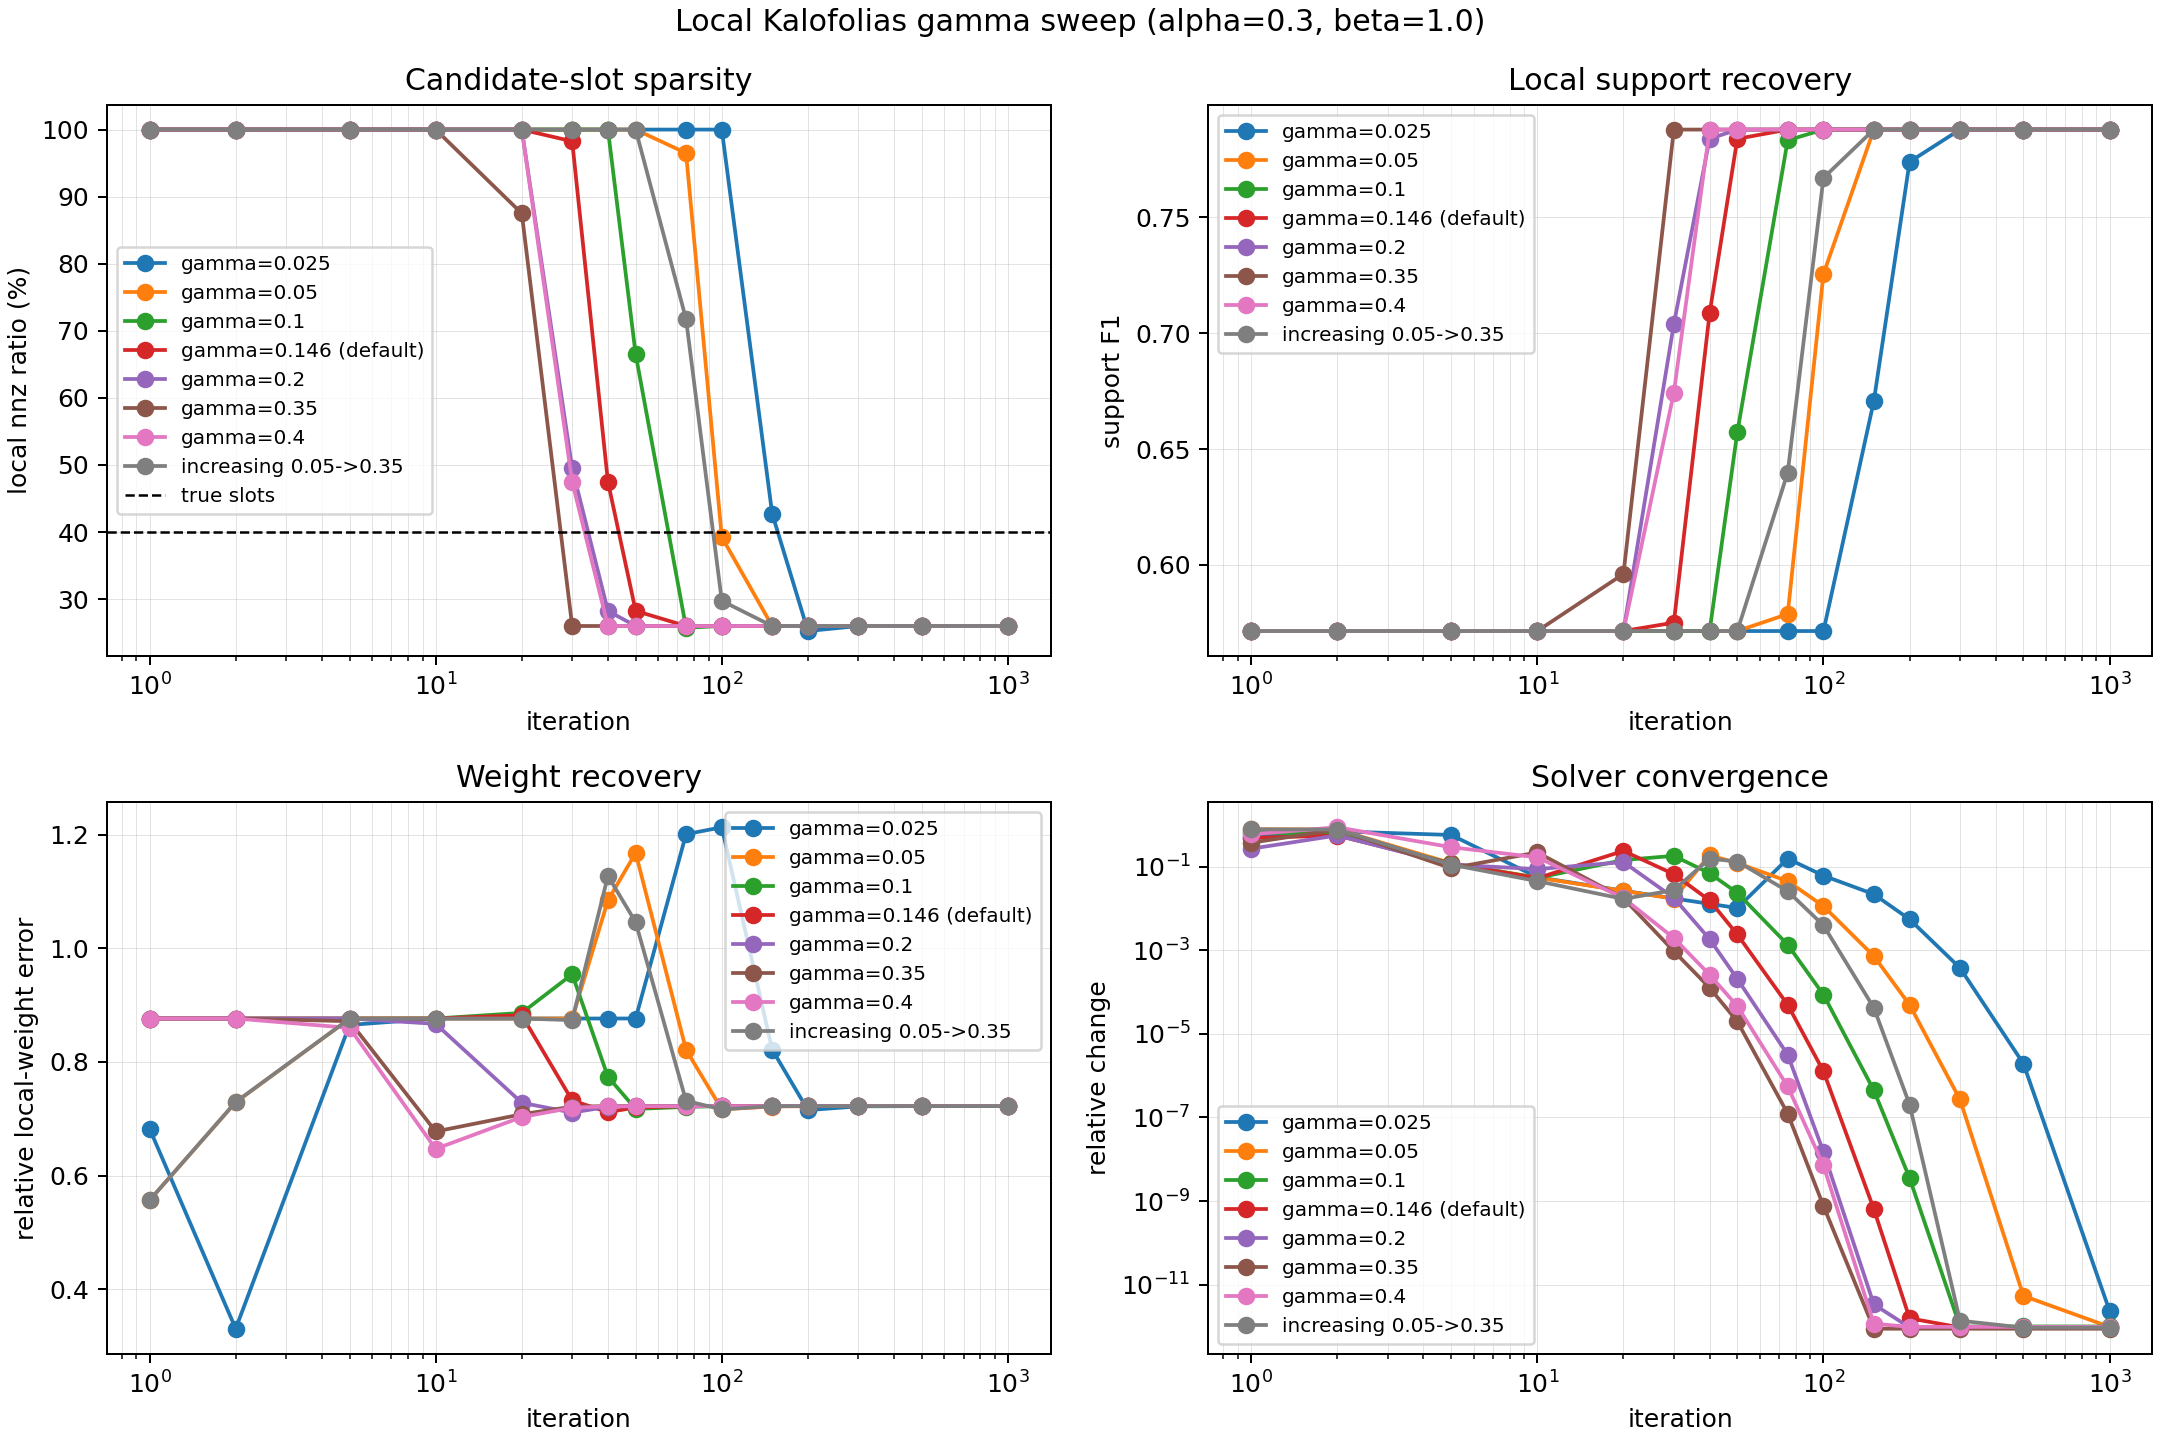
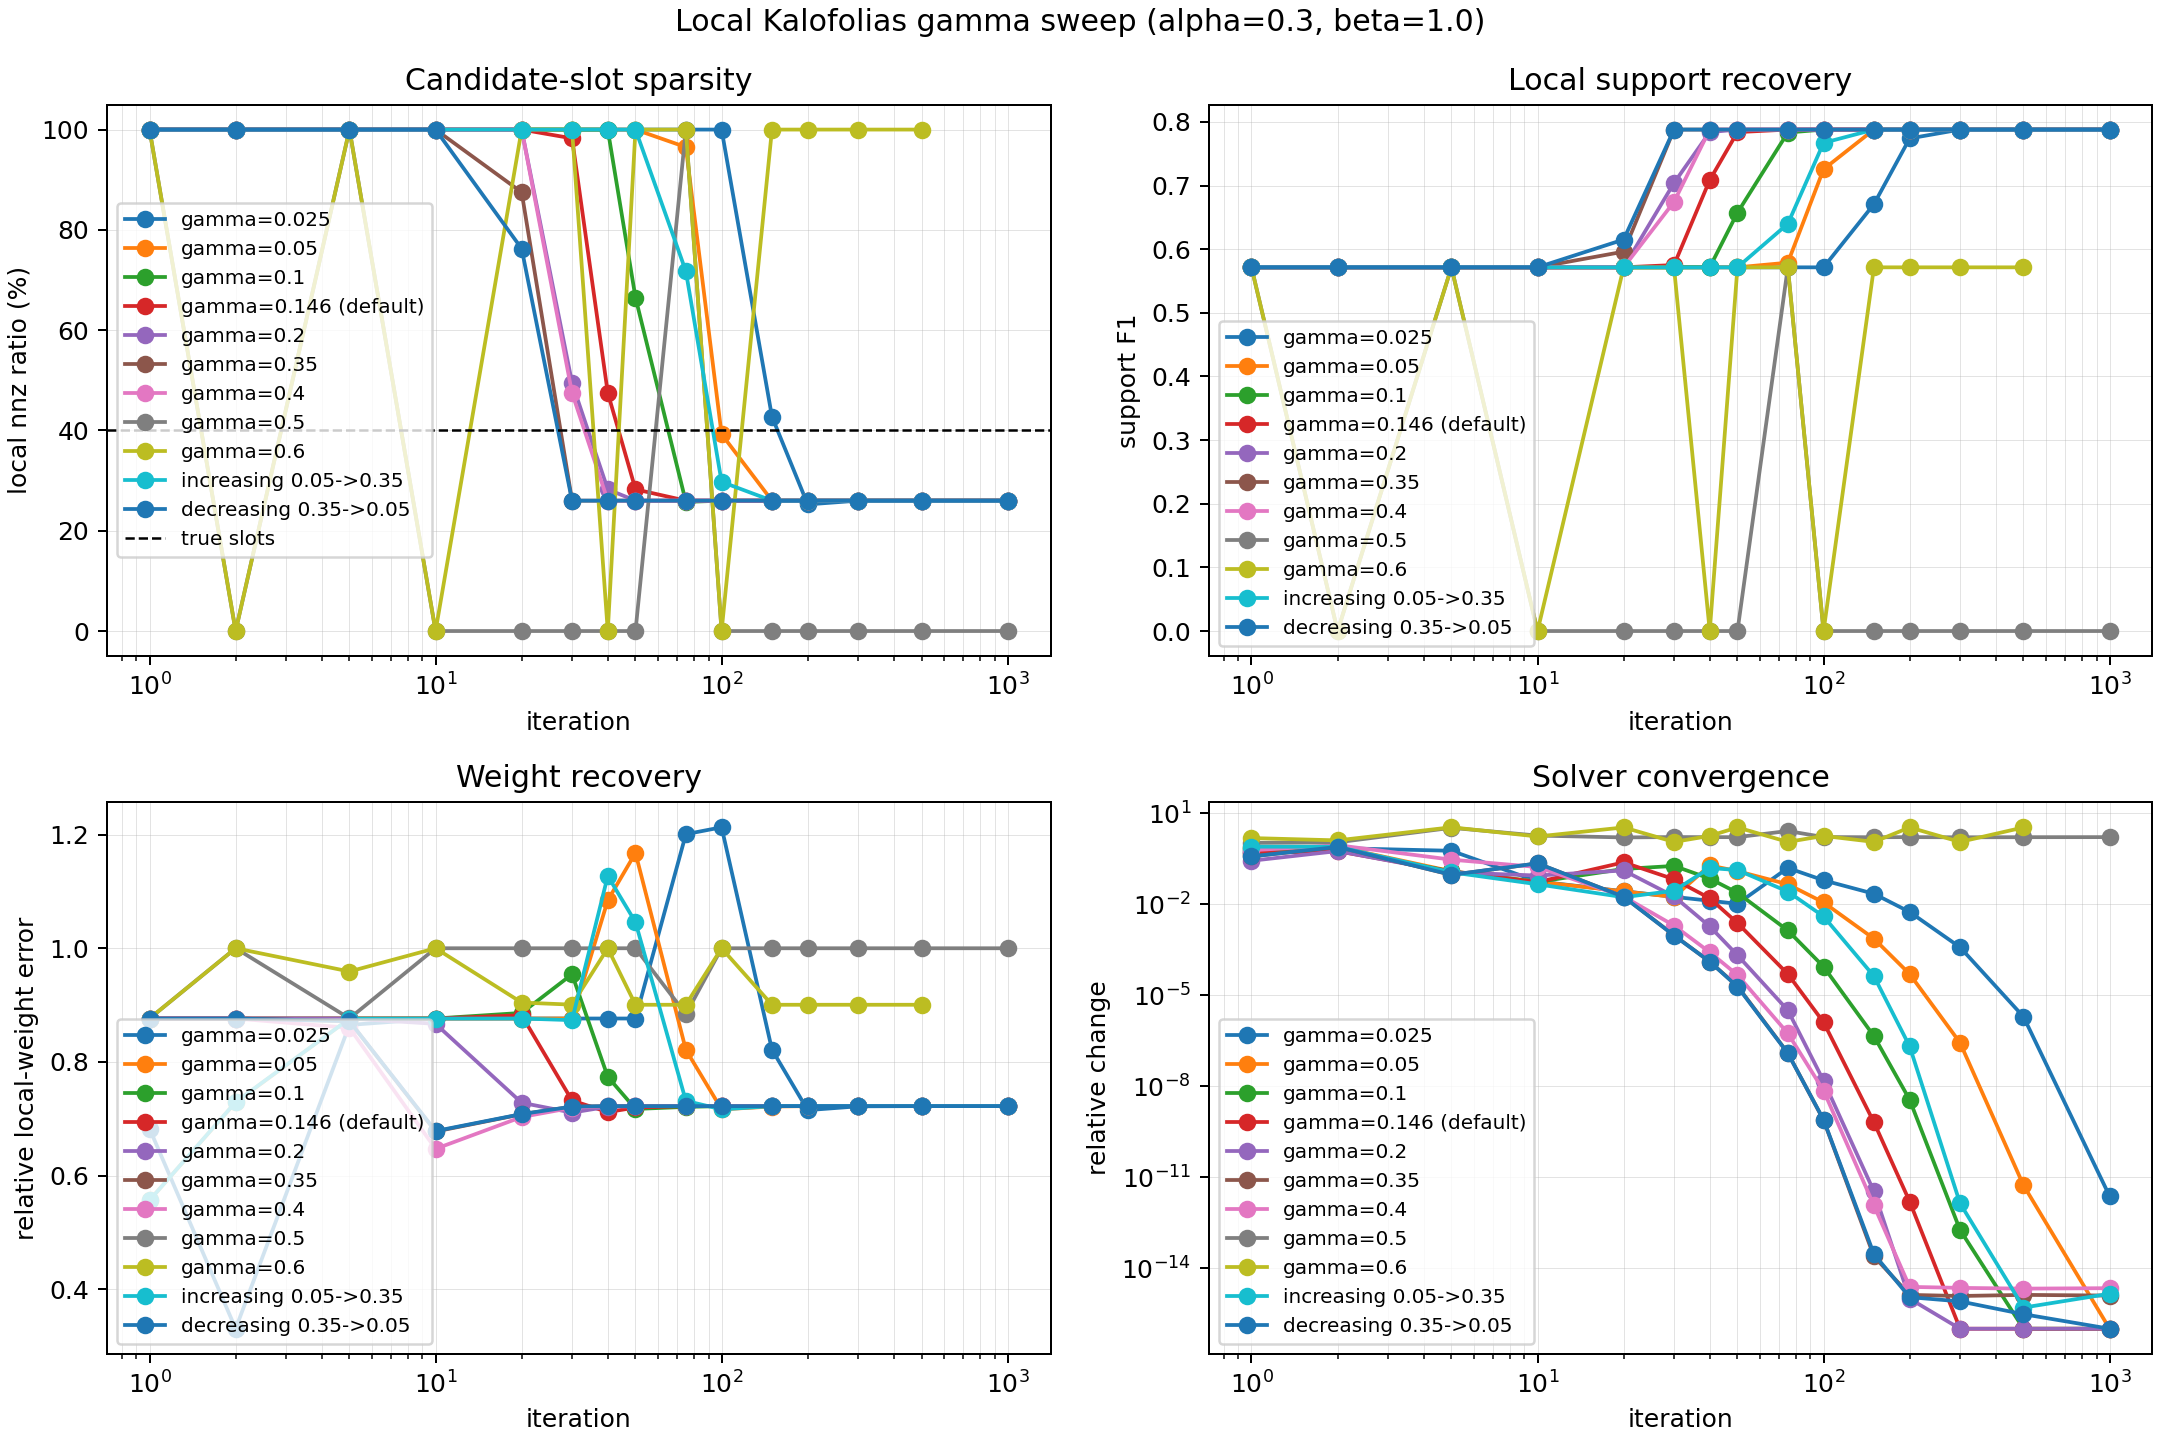
added test codes

diff --git a/train/test_traffic.py b/train/test_traffic.py
@@ -1,0 +1,102 @@
+"""Evaluate a traffic checkpoint on the test split.
+
+Run from the repository root with ``python -m train.test_traffic --help``.
+Use the same dataset and model options that were used during training.
+"""
+
+from __future__ import annotations
+
+import pickle
+from pathlib import Path
+
+import torch
+
+from train.train_utils import (
+    apply_args_to_config,
+    build_loss_fn,
+    create_data,
+    create_model,
+    get_model_config,
+    parse_args,
+    prepare_runtime,
+)
+from utils import test as evaluate_batches
+
+
+SIGNAL_NAMES = ("flow", "occupancy", "speed")
+
+
+def load_checkpoint(model, path, device):
+    """Strictly restore model weights from either checkpoint format."""
+    checkpoint_path = Path(path).expanduser()
+    if not checkpoint_path.is_file():
+        raise FileNotFoundError(f"Checkpoint does not exist: {checkpoint_path}")
+
+    try:
+        checkpoint = torch.load(checkpoint_path, map_location=device, weights_only=True)
+    except TypeError:  # PyTorch versions before weights_only was introduced.
+        checkpoint = torch.load(checkpoint_path, map_location=device)
+    except pickle.UnpicklingError:
+        # Full training-state files include NumPy RNG objects, which cannot be
+        # loaded by weights_only. Only load checkpoint files you trust.
+        checkpoint = torch.load(checkpoint_path, map_location=device, weights_only=False)
+
+    state_dict = checkpoint.get("model") if isinstance(checkpoint, dict) and "model" in checkpoint else checkpoint
+    if not isinstance(state_dict, dict):
+        raise ValueError(f"{checkpoint_path} does not contain a model state_dict")
+    try:
+        model.load_state_dict(state_dict, strict=True)
+    except RuntimeError as error:
+        raise RuntimeError(
+            "Checkpoint weights do not match the model. Use the same --dataset, "
+            "--config, --ablation and model options as in training."
+        ) from error
+    return checkpoint_path
+
+
+def main(argv=None):
+    args, config = parse_args(argv, testing=True)
+    config = apply_args_to_config(config, args)
+    device = prepare_runtime(args)
+    datasets_and_loaders, data_normalization = create_data(config, args, device)
+    train_set, _, test_set, _, _, test_loader = datasets_and_loaders
+    if len(test_set) == 0:
+        raise ValueError("The test split is empty")
+
+    model, _ = create_model(config, args, train_set, device)
+    checkpoint_path = load_checkpoint(model, args.checkpoint, device)
+    model.eval()
+    loss_fn = build_loss_fn(config)
+    use_one_channel = get_model_config(config)["use_one_channel"]
+    result = evaluate_batches(
+        model, test_loader, data_normalization, False, config, device,
+        train_set.signal_channel, mode="val", loss_fn=loss_fn,
+        use_one_channel=use_one_channel,
+    )
+    if use_one_channel:
+        loss, metrics = result
+        channel_metrics = None
+    else:
+        loss, metrics, channel_metrics = result
+
+    print(f"Checkpoint: {checkpoint_path}")
+    print(f"Dataset: {args.dataset} | test samples: {len(test_set)} | device: {device}")
+    print(f"Test loss ({config['loss_function']}): {loss:.4f}")
+    print(
+        "ALL: rec_RMSE={rec_RMSE:.4f}, pred_RMSE={pred_RMSE:.4f}, "
+        "pred_MAE={pred_MAE:.4f}, pred_MAPE={pred_MAPE:.4f}%, "
+        "rNMSE={rNMSE:.4f}".format(**metrics)
+    )
+    if channel_metrics is not None:
+        for channel in range(train_set.signal_channel):
+            name = SIGNAL_NAMES[channel] if channel < len(SIGNAL_NAMES) else f"channel_{channel}"
+            print(
+                f"{name}: rec_RMSE={channel_metrics['rec_RMSE'][channel]:.4f}, "
+                f"pred_RMSE={channel_metrics['pred_RMSE'][channel]:.4f}, "
+                f"pred_MAE={channel_metrics['pred_MAE'][channel]:.4f}, "
+                f"pred_MAPE={channel_metrics['pred_MAPE'][channel]:.4f}%"
+            )
+
+
+if __name__ == "__main__":
+    main()

diff --git a/local_kalofolias/sweep_gamma.py b/local_kalofolias/sweep_gamma.py
@@ -95,16 +95,25 @@ def gamma_label(gamma: float, automatic_gamma: float) -> str:
     return label
 
 
+def recovery_metrics(weights: torch.Tensor, true_local: torch.Tensor, threshold: float) -> Dict[str, float]:
+    """Do not report support or weight recovery for non-finite iterates."""
+    if not torch.isfinite(weights).all():
+        return {key: math.nan for key in ("nnz", "nnz_ratio", "f1", "rel_fro")}
+    return local_metrics(weights, true_local, threshold)
+
+
 def print_summary(rows: List[Dict[str, object]], convergence_tol: float) -> None:
     """Print one final convergence/recovery row per gamma."""
-    headers = ["gamma", f"iter_to_{convergence_tol:g}", "final_rel_change", "nnz", "f1", "rel_fro"]
+    headers = ["gamma", "converged", f"iter_to_{convergence_tol:g}", "final_rel_change", "nnz", "f1", "rel_fro"]
     print(" | ".join(headers))
     print(" | ".join(["---"] * len(headers)))
     for row in rows:
         iteration = "-" if row["iter_to_tol"] < 0 else str(int(row["iter_to_tol"]))
         print(
-            f"{row['label']} | {iteration} | {row['rel_change']:.6g} | "
-            f"{int(row['nnz'])} | {row['f1']:.4f} | {row['rel_fro']:.6g}"
+            f"{row['label']} | {'yes' if row['iter_to_tol'] >= 0 else 'no'} | "
+            f"{iteration} | {row['rel_change']:.6g} | "
+            f"{int(row['nnz']) if math.isfinite(row['nnz']) else '-'} | "
+            f"{row['f1']:.4f} | {row['rel_fro']:.6g}"
         )
 
 
@@ -156,11 +165,11 @@ def main() -> None:
     parser = argparse.ArgumentParser(
         description="Compare Local Kalofolias gamma values with alpha=0.3 and beta=1.0 fixed."
     )
-    parser.add_argument("--gammas", type=str, default="0.025,0.05,0.1,default,0.2,0.35,0.4")
+    parser.add_argument("--gammas", type=str, default="0.025,0.05,0.1,default,0.2,0.35,0.4,0.5,0.6")
     parser.add_argument(
         "--gamma-schedules",
         type=str,
-        default="increasing:0.05:0.35",
+        default="increasing:0.05:0.35,decreasing:0.35:0.05",
         help="comma-separated name:start:end linear schedules; use an empty string to disable",
     )
     parser.add_argument("--n-samples", type=int, default=200)
@@ -224,13 +233,14 @@ def main() -> None:
                 tol=args.tol,
                 gamma=gamma,
                 threshold=args.threshold,
+                early_stopping=False,
                 return_info=True,
             )
             trace.append(
                 {
                     "iter": float(checkpoint),
                     "rel_change": result.relative_change,
-                    **local_metrics(result.local_weights, true_local, args.threshold),
+                    **recovery_metrics(result.local_weights, true_local, args.threshold),
                 }
             )
         traces[case.label] = trace
@@ -243,7 +253,7 @@ def main() -> None:
                 "label": case.label,
                 "iter_to_tol": -1.0 if convergence_iteration is None else float(convergence_iteration),
                 "rel_change": full_result.relative_change,
-                **local_metrics(full_result.local_weights, true_local, args.threshold),
+                **recovery_metrics(full_result.local_weights, true_local, args.threshold),
             }
         )
 

diff --git a/train/train_utils.py b/train/train_utils.py
@@ -226,7 +226,7 @@ def _add_bool_override(parser, name, dest, help_text):
     group.add_argument(f"--no-{name}", dest=dest, action="store_false", help=f"disable {help_text}")
 
 
-def parse_args(argv=None):
+def parse_args(argv=None, *, testing=False):
     """Parse command-line arguments for traffic training.
 
     YAML is the source of persistent defaults.  Most model/data hyperparameters
@@ -242,6 +242,8 @@ def parse_args(argv=None):
     parser.add_argument("--cuda", help="CUDA device", default=-1, type=int)
     parser.add_argument("--dataset", help="dataset name", type=str, required=True)
     parser.add_argument("--batchsize", help="batch size", type=int, required=True)
+    if testing:
+        parser.add_argument("--checkpoint", required=True, help="path to val_<epoch>.pth or last_train_state.pth")
     parser.add_argument(
         "--logs-dir",
         default=f"logs_{datetime.now().strftime('%m%d')}",

diff --git a/local_kalofolias/README.md b/local_kalofolias/README.md
@@ -196,30 +196,37 @@ The gamma list and output path can be overridden, while alpha and beta remain
 fixed by this experiment:
 
 ```bash
-python -m local_kalofolias.sweep_gamma --gammas 0.05,0.1,default,0.2,0.35 --gamma-schedules increasing:0.05:0.35 --max-iter 1000 --output local_kalofolias/figures/gamma_convergence_sweep.png
+python -m local_kalofolias.sweep_gamma --gammas 0.05,0.1,default,0.2,0.35 --gamma-schedules increasing:0.05:0.35,decreasing:0.35:0.05 --max-iter 1000 --output local_kalofolias/figures/gamma_convergence_sweep.png
 ```
 
-Recorded result with convergence defined as relative change remaining below
-`1e-4` for the rest of the run:
+Recorded result with `alpha=0.3`, `beta=1.0`, `max_iter=1000`, `seed=0`, and
+`float64`. Each gamma runs the full iteration budget. A case is marked
+converged if its relative weight change stays finite and below `1e-4` from
+the reported iteration through iteration 1000. `-` means this criterion was
+not met:
 
-| gamma | iteration to `1e-4` | final relative change | nnz | F1 | relative weight error |
-| ---: | ---: | ---: | ---: | ---: | ---: |
-| 0.025 | 353 | 2.35319e-12 | 104 | 0.7879 | 0.722341 |
-| 0.05 | 186 | 9.72126e-13 | 104 | 0.7879 | 0.722341 |
-| 0.1 | 99 | 9.96257e-13 | 104 | 0.7879 | 0.722341 |
-| 0.14604989 (default) | 70 | 9.46649e-13 | 104 | 0.7879 | 0.722341 |
-| 0.2 | 53 | 9.46841e-13 | 104 | 0.7879 | 0.722341 |
-| 0.35 | 42 | 8.79829e-13 | 104 | 0.7879 | 0.722341 |
-| 0.4 | 46 | 9.73148e-13 | 104 | 0.7879 | 0.722341 |
-| increasing 0.05 -> 0.35 | 139 | 9.33626e-13 | 104 | 0.7879 | 0.722341 |
+| gamma | converged | iteration to `1e-4` | final relative change | nnz | F1 | relative weight error |
+| ---: | :---: | ---: | ---: | ---: | ---: | ---: |
+| 0.025 | yes | 353 | 2.35319e-12 | 104 | 0.7879 | 0.722341 |
+| 0.05 | yes | 186 | 0 | 104 | 0.7879 | 0.722341 |
+| 0.1 | yes | 99 | 9.33241e-17 | 104 | 0.7879 | 0.722341 |
+| 0.14604989 (default) | yes | 70 | 0 | 104 | 0.7879 | 0.722341 |
+| 0.2 | yes | 53 | 0 | 104 | 0.7879 | 0.722341 |
+| 0.35 | yes | 42 | 1.24089e-15 | 104 | 0.7879 | 0.722341 |
+| 0.4 | yes | 46 | 2.17347e-15 | 104 | 0.7879 | 0.722341 |
+| 0.5 | no | - | 1.62878 | 0 | 0.0000 | 1 |
+| 0.6 | no | - | nan | - | nan | nan |
+| increasing 0.05 -> 0.35 | yes | 139 | 1.42147e-15 | 104 | 0.7879 | 0.722341 |
+| decreasing 0.35 -> 0.05 | yes | 42 | 2.95117e-17 | 104 | 0.7879 | 0.722341 |
 
 ![Gamma convergence sweep](figures/gamma_convergence_sweep.png)
 
-All tested values reach the same recovered support and weight error, but their
-convergence rates differ substantially. In this problem, increasing gamma from
+Values from `0.025` through `0.4` reach the same recovered support and weight
+error, with substantially different convergence rates. Increasing gamma from
 the conservative default reduces the sustained-convergence point from 70
-iterations to 42 iterations at `gamma=0.35`, whereas `gamma=0.025` needs 353
-iterations. The linear increasing schedule from `0.05` to `0.35` reaches the
-same criterion at iteration 139. This is an empirical result for this synthetic
-problem; larger steps are not guaranteed to remain stable on other data or
-candidate graphs.
+iterations to 42 at `gamma=0.35`, whereas `gamma=0.025` needs 353 iterations.
+The linear increasing schedule from `0.05` to `0.35` reaches the same criterion
+at iteration 139; the linear decreasing schedule from `0.35` to `0.05` reaches
+it at iteration 42. At `gamma=0.5`, the updates still oscillate after 1000
+iterations. At `gamma=0.6`, the computation produces non-finite values. These
+are empirical outcomes for this synthetic problem and iteration budget.

diff --git a/README_CN.md b/README_CN.md
@@ -280,6 +280,18 @@ models/<experiment_name>/Huber/
 
 `last_train_state.pth` 包含模型、optimizer、scheduler、下一 epoch、最佳 validation 状态、loss/Theta 历史以及 Python/NumPy/PyTorch CPU/CUDA 的 RNG 状态。以相同实验目录再次启动时会自动恢复它；可用以下选项控制：
 
+### 指定 checkpoint 评估测试集
+
+从仓库根目录运行测试入口，`--checkpoint` 可以指向 `val_<epoch>.pth` 或 `last_train_state.pth`：
+
+```bash
+python -m train.test_traffic \
+  --dataset PEMS08 --batchsize 4 --cuda 0 \
+  --checkpoint /path/to/val_12.pth
+```
+
+测试时需要传入与训练时一致的 `--config`、`--dataset`、`--ablation` 和模型相关命令行参数；例如训练时设置了 `--neighbors 4 --theta-neighbors 10`，测试时也要加上。程序打印测试 loss、整体的重建 RMSE、预测 RMSE/MAE/MAPE/rNMSE，以及多通道数据的逐通道指标。`last_train_state.pth` 是最近一个 epoch 的模型状态；如果想评估验证集最优模型，请使用对应的 `val_<epoch>.pth`。只加载可信来源的 `.pth` 文件。
+
 ```bash
 # 指定一个完整训练状态文件
 --resume /path/to/last_train_state.pth
